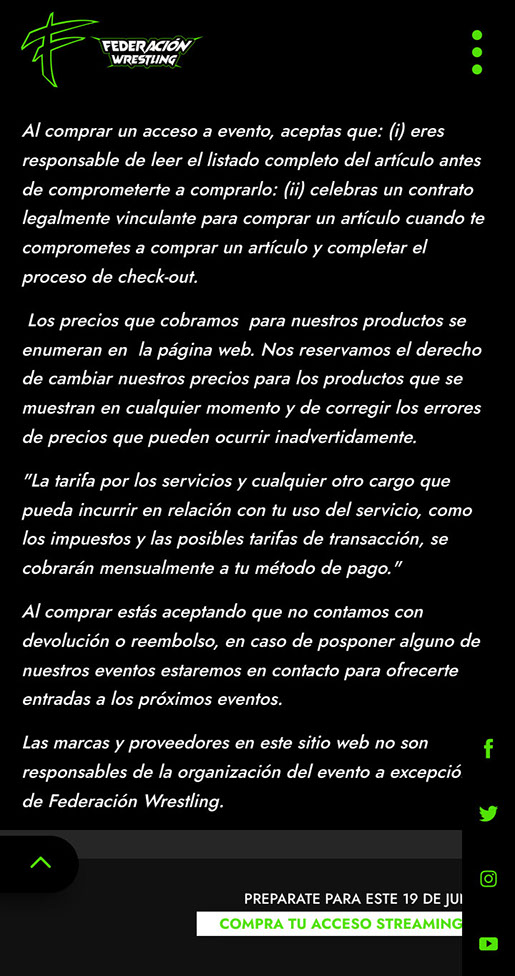
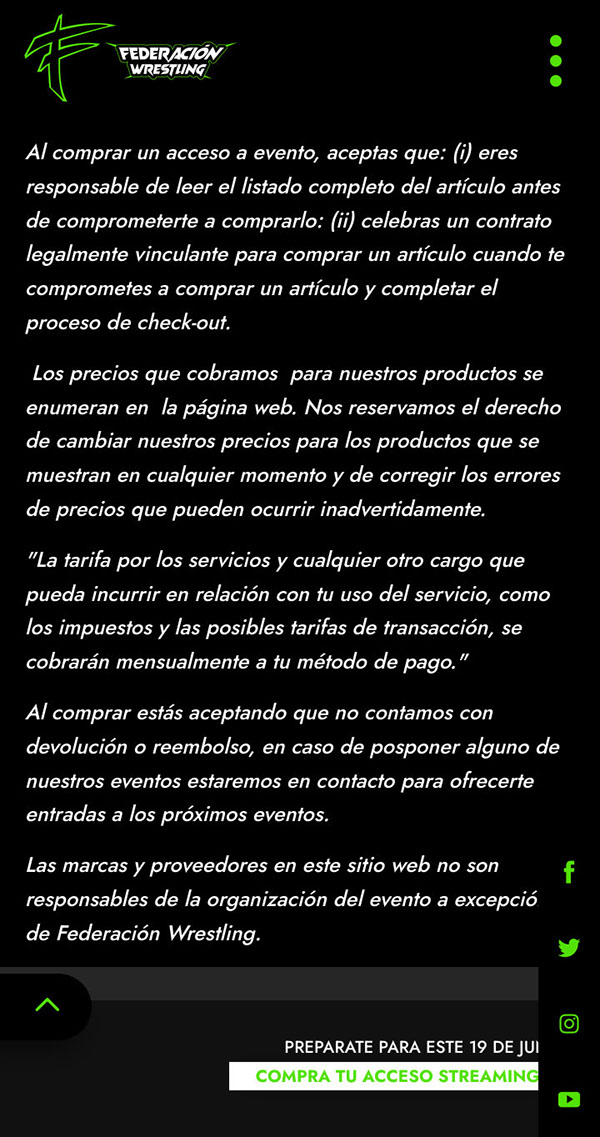
3

diff --git a/css/index.css b/css/index.css
@@ -1,1 +1,1 @@
-.version.index{color:#00001D;background-color:#600077;}.js body{visibility:hidden;}.js body.initialized{visibility:visible;}#page{z-index:1;border-width:0px;background-color:transparent;margin-left:auto;margin-right:auto;width:100%;border-color:#000000;background-image:none;}#u208{z-index:116;position:relative;width:200px;height:90px;}#u94-105{z-index:9;font-family:Arial, Helvetica Neue, Helvetica, sans-serif;text-align:center;text-transform:none;background-color:transparent;}#u94-4,#u94-7{color:#000000;font-weight:bold;}#u94-12{color:#FFFFFF;line-height:36px;font-size:30px;}#u94-13,#u94-14{color:#000000;line-height:36px;font-size:30px;font-weight:bold;}#u94-8,#u94-20,#u94-23,#u94-26{color:#FFFFFF;line-height:24px;font-size:20px;}#u94-5,#u94-10,#u94-18,#u94-21,#u94-24{font-weight:bold;}#u94-2,#u94-3,#u94-9,#u94-16,#u94-17,#u94-27,#u94-29,#u94-30,#u94-35,#u94-38,#u94-39,#u94-40,#u94-42,#u94-43,#u94-46,#u94-47,#u94-49,#u94-50,#u94-51,#u94-52,#u94-53,#u94-54,#u94-55,#u94-56,#u94-57,#u94-58,#u94-59,#u94-60,#u94-61,#u94-62,#u94-63,#u94-64,#u94-65,#u94-66,#u94-67,#u94-68,#u94-69,#u94-70,#u94-71,#u94-72,#u94-73,#u94-74,#u94-75,#u94-76,#u94-77,#u94-78,#u94-79,#u94-80,#u94-81,#u94-82,#u94-83,#u94-84,#u94-85,#u94-86,#u94-87,#u94-88,#u94-89,#u94-90,#u94-91,#u94-92,#u94-93,#u94-94,#u94-95,#u94-96,#u94-97,#u94-98,#u94-99,#u94-100,#u94-101,#u94-102,#u94-103{color:#000000;line-height:24px;font-size:20px;font-weight:bold;}#u3902{z-index:115;-ms-filter:"progid:DXImageTransform.Microsoft.Alpha(Opacity=100)";filter:alpha(opacity=100);height:976px;opacity:1;background:transparent url("../images/fed2.jpg?crc=4159938597") no-repeat left top;background-size:contain;}#pu3876{z-index:114;margin-right:-10000px;}#u3876{z-index:114;background-repeat:no-repeat;background-position:left top;-ms-filter:"progid:DXImageTransform.Microsoft.Alpha(Opacity=100)";filter:alpha(opacity=100);background-color:transparent;opacity:1;background-size:contain;}#u157-7{z-index:2;position:relative;}.html{background-color:#FFFFFF;}body{position:relative;}.verticalspacer{min-height:1px;}@media (min-width: 1281px), print{#muse_css_mq{background-color:#FFFFFF;}#bp_infinity.active{display:block;}#page{min-height:460px;padding-bottom:161px;max-width:1440px;}#pu94-105{z-index:9;margin-right:-10000px;margin-top:30px;width:100%;}#u94-105{min-height:2561px;}#u94-105-bw{z-index:9;min-height:2561px;margin-top:31px;left:0px;margin-left:0px;}#u3902{position:relative;margin-right:-10000px;margin-top:2292px;width:35.84%;left:30.63%;margin-left:0%;}#u208{margin-right:-10000px;margin-left:50%;left:-100px;}.css_verticalspacer .verticalspacer{height:calc(100vh - 3717px);}#pu3876{margin-top:-1688px;width:86.32%;margin-left:6.05%;}#u3876{background-image:url("../images/fed.jpg?crc=402608689");position:relative;width:100%;}#u3876 .fluid_height_spacer{padding-bottom:56.395816572807725%;}#u157-7{margin-top:1213px;width:96.38%;margin-left:2.66%;}}@media (min-width: 1101px) and (max-width: 1280px){#muse_css_mq{background-color:#000500;}#bp_1280.active{display:block;}#page{min-height:460px;padding-bottom:161px;max-width:1280px;}#ppu94-105{z-index:0;padding-bottom:0px;margin-right:-10000px;margin-top:30px;width:100%;}#pu94-105{z-index:9;width:100%;margin-left:0%;}#u94-105{min-height:1602px;}#u94-105-bw{z-index:9;min-height:1602px;margin-top:60px;}#u208{margin-right:-10000px;margin-left:50%;left:-100px;}#u3902{margin-top:84px;position:relative;width:39.38%;left:0%;margin-left:34.54%;}.css_verticalspacer .verticalspacer{height:calc(100vh - 3766px);}#pu3876{margin-top:-1712px;width:86.41%;margin-left:8.36%;}#u3876{background-image:url("../images/fed.jpg?crc=402608689");position:relative;width:99.91%;}#u3876 .fluid_height_spacer{padding-bottom:56.380090497737555%;}#u157-7{margin-top:1315px;width:96.3%;}body{overflow-x:hidden;}}@media (min-width: 1031px) and (max-width: 1100px){#muse_css_mq{background-color:#00044c;}#bp_1100.active{display:block;}#page{min-height:459px;padding-bottom:162px;max-width:1100px;}#pu208{z-index:116;margin-right:-10000px;margin-top:30px;width:100%;}#u208{margin-left:50%;left:-100px;}#u94-105{min-height:2244px;}#u94-105-bw{z-index:9;min-height:2244px;margin-top:30px;left:0px;margin-left:0px;}#u3902{margin-top:22px;position:relative;width:48.37%;left:0%;margin-left:25.82%;}.css_verticalspacer .verticalspacer{height:calc(100vh - 3811px);}#pu3876{margin-top:-1636px;width:86.37%;margin-left:8.37%;}#u3876{background-image:url("../images/fed-u3876-fr.jpg?crc=4161725716");position:relative;width:100%;}#u3876 .fluid_height_spacer{padding-bottom:56.315789473684205%;}#u157-7{margin-top:1327px;width:96.32%;}body{overflow-x:hidden;}}@media (min-width: 901px) and (max-width: 1030px){#muse_css_mq{background-color:#000406;}#bp_1030.active{display:block;}#page{min-height:460px;padding-bottom:161px;max-width:1030px;}#pu208{z-index:116;margin-right:-10000px;margin-top:30px;width:100%;}#u208{margin-left:50%;left:-100px;}#pu94-105{z-index:9;margin-top:30px;width:100%;left:0%;margin-left:0%;}#u94-105{min-height:2244px;}#u94-105-bw{z-index:9;min-height:2244px;}#u3902{position:relative;margin-right:-10000px;margin-top:2175px;width:50.49%;left:26.32%;}.css_verticalspacer .verticalspacer{height:calc(100vh - 3720px);}#pu3876{margin-top:-1628px;width:86.41%;margin-left:8.35%;}#u3876{background-image:url("../images/fed-u3876-fr2.jpg?crc=387586724");position:relative;width:99.89%;}#u3876 .fluid_height_spacer{padding-bottom:56.35545556805399%;}#u157-7{margin-top:1353px;width:96.3%;}body{overflow-x:hidden;}}@media (min-width: 601px) and (max-width: 900px){#muse_css_mq{background-color:#000384;}#bp_900.active{display:block;}#page{min-height:460px;padding-bottom:161px;max-width:900px;}#pu208{z-index:116;padding-bottom:0px;margin-right:-10000px;margin-top:30px;width:83.23%;}#u208{margin-left:60.09%;left:-101px;}#u94-105{margin-top:32px;position:relative;width:100%;left:0%;margin-left:8.82%;}#u3902{margin-top:450px;position:relative;width:70.9%;left:0%;margin-left:29.11%;}.css_verticalspacer .verticalspacer{height:calc(100vh - 4494px);}#pu3876{margin-top:-1488px;width:86.34%;margin-left:7.34%;}#u3876{background-image:url("../images/fed-u3876-fr3.jpg?crc=4220156034");position:relative;width:100%;}#u3876 .fluid_height_spacer{padding-bottom:56.37065637065637%;}#u157-7{margin-top:1276px;width:96.4%;margin-left:1.16%;}body{overflow-x:hidden;}}@media (max-width: 600px){#muse_css_mq{background-color:#000258;}#bp_600.active{display:block;}#page{min-height:460px;padding-bottom:161px;max-width:600px;}#pu208{z-index:116;padding-bottom:0px;margin-right:-10000px;margin-top:30px;width:100%;margin-left:0%;}#u208{margin-left:50%;left:-100px;}#u94-105{min-height:1724px;}#u94-105-bw{z-index:9;min-height:1724px;margin-top:47px;}#u3902-bw{z-index:115;margin-top:124px;height:976px;}.css_verticalspacer .verticalspacer{height:calc(100vh - 4399px);}#pu3876{margin-top:-1398px;width:100%;}#u3876{height:292px;background-image:url("../images/fed-u3876-fr4.jpg?crc=4101472831");}#u3876-bw{z-index:114;height:292px;}#u157-7{margin-top:1332px;width:83.17%;margin-left:8.34%;}body{overflow-x:hidden;min-width:320px;}}
+.version.index{color:#000007;background-color:#BA2ACB;}.js body{visibility:hidden;}.js body.initialized{visibility:visible;}#page{z-index:1;border-width:0px;background-color:transparent;min-height:460px;padding-bottom:161px;margin-right:auto;width:100%;border-color:#000000;margin-left:auto;background-image:none;}#u208{z-index:115;position:relative;width:200px;height:90px;}#pu94-105{z-index:9;}#u94-105{z-index:9;text-align:center;text-transform:none;background-color:transparent;font-family:Arial, Helvetica Neue, Helvetica, sans-serif;}#u94-4,#u94-7{color:#000000;font-weight:bold;}#u94-12{color:#FFFFFF;line-height:36px;font-size:30px;}#u94-13,#u94-14{color:#000000;line-height:36px;font-size:30px;font-weight:bold;}#u94-8,#u94-20,#u94-23,#u94-26{color:#FFFFFF;line-height:24px;font-size:20px;}#u94-5,#u94-10,#u94-18,#u94-21,#u94-24{font-weight:bold;}#u94-2,#u94-3,#u94-9,#u94-16,#u94-17,#u94-27,#u94-29,#u94-30,#u94-35,#u94-38,#u94-39,#u94-40,#u94-42,#u94-43,#u94-46,#u94-47,#u94-49,#u94-50,#u94-51,#u94-52,#u94-53,#u94-54,#u94-55,#u94-56,#u94-57,#u94-58,#u94-59,#u94-60,#u94-61,#u94-62,#u94-63,#u94-64,#u94-65,#u94-66,#u94-67,#u94-68,#u94-69,#u94-70,#u94-71,#u94-72,#u94-73,#u94-74,#u94-75,#u94-76,#u94-77,#u94-78,#u94-79,#u94-80,#u94-81,#u94-82,#u94-83,#u94-84,#u94-85,#u94-86,#u94-87,#u94-88,#u94-89,#u94-90,#u94-91,#u94-92,#u94-93,#u94-94,#u94-95,#u94-96,#u94-97,#u94-98,#u94-99,#u94-100,#u94-101,#u94-102,#u94-103{color:#000000;line-height:24px;font-size:20px;font-weight:bold;}#u3902{z-index:114;-ms-filter:"progid:DXImageTransform.Microsoft.Alpha(Opacity=100)";filter:alpha(opacity=100);opacity:1;background:transparent url("../images/fed2.jpg?crc=3839287600") no-repeat left top;background-size:contain;}#u157-7{z-index:2;margin-right:-10000px;position:relative;margin-top:226px;}.html{background-color:#FFFFFF;}body{position:relative;}@media (min-width: 1281px), print{#muse_css_mq{background-color:#FFFFFF;}#bp_infinity.active{display:block;}#page{max-width:1440px;}#pu94-105{margin-right:-10000px;margin-top:30px;width:100%;}#u94-105{min-height:2561px;}#u94-105-bw{z-index:9;min-height:2561px;margin-top:31px;left:0px;margin-left:0px;}#u3902{height:976px;position:relative;margin-right:-10000px;margin-top:1047px;width:35.84%;left:32.09%;margin-left:0%;}#u208{margin-right:-10000px;margin-left:50%;left:-100px;}.css_verticalspacer .verticalspacer{height:calc(100vh - 3042px);}#u157-7{width:83.2%;left:8.34%;}.verticalspacer{min-height:1px;}}@media (min-width: 1101px) and (max-width: 1280px){#muse_css_mq{background-color:#000500;}#bp_1280.active{display:block;}#page{max-width:1280px;}#pu94-105{margin-right:-10000px;margin-top:30px;width:100%;}#u94-105{min-height:1602px;}#u94-105-bw{z-index:9;min-height:1602px;margin-top:60px;left:0px;margin-left:0px;}#u3902{height:976px;position:relative;margin-right:-10000px;margin-top:1041px;width:39.38%;left:34.54%;margin-left:0%;}#u208{margin-right:-10000px;margin-left:50%;left:-100px;}.css_verticalspacer .verticalspacer{height:calc(100vh - 2707px);}#u157-7{width:83.21%;left:8.36%;}body{overflow-x:hidden;}.verticalspacer{min-height:1px;}}@media (min-width: 1031px) and (max-width: 1100px){#muse_css_mq{background-color:#00044c;}#bp_1100.active{display:block;}#page{max-width:1100px;}#pu208{z-index:115;margin-right:-10000px;margin-top:30px;width:100%;}#u208{margin-left:50%;left:-100px;}#pu94-105{margin-top:30px;width:100%;left:0%;margin-left:0%;}#u94-105{min-height:2244px;}#u94-105-bw{z-index:9;min-height:2244px;}#u3902{height:976px;position:relative;margin-right:-10000px;margin-top:1015px;width:48.37%;left:29%;}.css_verticalspacer .verticalspacer{height:calc(100vh - 2815px);}#u157-7{width:83.19%;left:8.37%;}body{overflow-x:hidden;}.verticalspacer{min-height:1px;}}@media (min-width: 901px) and (max-width: 1030px){#muse_css_mq{background-color:#000406;}#bp_1030.active{display:block;}#page{max-width:1030px;}#pu208{z-index:115;margin-right:-10000px;margin-top:30px;width:100%;}#u208{margin-left:50%;left:-100px;}#pu94-105{margin-top:30px;width:100%;left:0%;margin-left:0%;}#u94-105{min-height:2244px;}#u94-105-bw{z-index:9;min-height:2244px;}#u3902{height:976px;position:relative;margin-right:-10000px;margin-top:1035px;width:50.49%;left:25.25%;}.css_verticalspacer .verticalspacer{height:calc(100vh - 2815px);}#u157-7{width:83.21%;left:8.35%;}body{overflow-x:hidden;}.verticalspacer{min-height:1px;}}@media (min-width: 601px) and (max-width: 900px){#muse_css_mq{background-color:#000384;}#bp_900.active{display:block;}#page{max-width:900px;}#pu208{z-index:115;padding-bottom:0px;margin-right:-10000px;margin-top:30px;width:83.23%;}#u208{margin-left:60.09%;left:-101px;}#pu94-105{margin-top:32px;width:100%;left:0%;margin-left:8.82%;}#u94-105{position:relative;margin-right:-10000px;width:100%;}#u3902{height:976px;position:relative;margin-right:-10000px;margin-top:1270px;width:70.9%;left:15.89%;}.css_verticalspacer .verticalspacer{height:calc(100vh - 3068px);}#u157-7{width:83.23%;left:8.34%;}body{overflow-x:hidden;}.verticalspacer{min-height:1426px;}}@media (max-width: 600px){#muse_css_mq{background-color:#000258;}#bp_600.active{display:block;}#page{max-width:600px;}#pu208{z-index:115;margin-right:-10000px;margin-top:30px;width:100%;margin-left:0%;}#u208{margin-left:50%;left:-100px;}#pu94-105{width:0.01px;margin-top:47px;}#u94-105{min-height:1724px;}#u94-105-bw{z-index:9;min-height:1724px;}#u3902{height:1158px;}#u3902-bw{z-index:114;margin-top:1567px;height:1158px;}.css_verticalspacer .verticalspacer{height:calc(100vh - 3313px);}#u157-7{width:83.17%;left:8.34%;}body{overflow-x:hidden;min-width:320px;}.verticalspacer{min-height:1px;}}

diff --git a/index.html b/index.html
@@ -19,12 +19,12 @@ if(typeof Muse == "undefined") window.Muse = {}; window.Muse.assets = {"required
   <!-- CSS -->
   <link rel="stylesheet" type="text/css" href="css/site_global.css?crc=386871843"/>
   <link rel="stylesheet" type="text/css" href="css/master_a-master.css?crc=102118095"/>
-  <link rel="stylesheet" type="text/css" href="css/index.css?crc=492830839" id="pagesheet"/>
+  <link rel="stylesheet" type="text/css" href="css/index.css?crc=129641163" id="pagesheet"/>
   <!-- IE-only CSS -->
   <!--[if lt IE 9]>
   <link rel="stylesheet" type="text/css" href="css/iefonts_index.css?crc=214816574"/>
   <link rel="stylesheet" type="text/css" href="css/nomq_preview_master_a-master.css?crc=3824530138"/>
-  <link rel="stylesheet" type="text/css" href="css/nomq_index.css?crc=155399578" id="nomq_pagesheet"/>
+  <link rel="stylesheet" type="text/css" href="css/nomq_index.css?crc=3969314988" id="nomq_pagesheet"/>
   <![endif]-->
   <!-- Other scripts -->
   <script type="text/javascript">
@@ -39,7 +39,7 @@ if(typeof Muse == "undefined") window.Muse = {}; window.Muse.assets = {"required
 
   <div class="breakpoint active" id="bp_infinity" data-min-width="1281"><!-- responsive breakpoint node -->
    <div class="clearfix borderbox" id="page"><!-- group -->
-    <div class="clearfix grpelem" id="pu94-105"><!-- group -->
+    <div class="clearfix grpelem shared_content" id="pu94-105" data-content-guid="pu94-105_content"><!-- group -->
      <div class="browser_width grpelem shared_content" id="u94-105-bw" data-content-guid="u94-105-bw_content">
       <div class="h1 clearfix shared_content" id="u94-105" data-muse-temp-textContainer-sizePolicy="true" data-muse-temp-textContainer-pinning="true" data-content-guid="u94-105_content"><!-- content -->
        <h1 id="u94-2">14/Jun/2021 • 5 P.M.</h1>
@@ -125,80 +125,62 @@ if(typeof Muse == "undefined") window.Muse = {}; window.Muse.assets = {"required
      <a class="nonblock nontext museBGSize grpelem shared_content" id="u3902" href="https://webcache.googleusercontent.com/search?q=cache:GFqQV5xJa8gJ:https://federacionwrestling.com/terminos-y-condiciones/+&amp;cd=1&amp;hl=es&amp;ct=clnk&amp;gl=mx&amp;client=firefox-b-d" data-content-guid="u3902_content"><!-- simple frame --></a>
      <div class="museBGSize grpelem shared_content" id="u208" data-sizePolicy="fixed" data-pintopage="page_fixedCenter" data-content-guid="u208_content"><!-- content --></div>
     </div>
-    <div class="verticalspacer" data-offset-top="3298" data-content-above-spacer="3297" data-content-below-spacer="420" data-sizePolicy="fixed" data-pintopage="page_fixedLeft"></div>
-    <div class="clearfix grpelem shared_content" id="pu3876" data-content-guid="pu3876_content"><!-- column -->
-     <a class="nonblock nontext museBGSize colelem" id="u3876" href="assets/fed.jpg"><!-- simple frame --><div class="fluid_height_spacer"></div></a>
-     <div class="footer1 clearfix colelem shared_content" id="u157-7" data-muse-temp-textContainer-sizePolicy="true" data-muse-temp-textContainer-pinning="true" data-content-guid="u157-7_content"><!-- content -->
-      <p id="u157-2">All rights reserved.</p>
-      <p id="u157-5"><span id="u157-3">All other trademarks and trade names are properties of their respective </span>owners.</p>
-     </div>
+    <div class="verticalspacer" data-offset-top="2622" data-content-above-spacer="2622" data-content-below-spacer="420" data-sizePolicy="fixed" data-pintopage="page_fixedLeft"></div>
+    <div class="footer1 clearfix grpelem shared_content" id="u157-7" data-muse-temp-textContainer-sizePolicy="true" data-muse-temp-textContainer-pinning="true" data-content-guid="u157-7_content"><!-- content -->
+     <p id="u157-2">All rights reserved.</p>
+     <p id="u157-5"><span id="u157-3">All other trademarks and trade names are properties of their respective </span>owners.</p>
     </div>
    </div>
   </div>
   <div class="breakpoint" id="bp_1280" data-min-width="1101" data-max-width="1280"><!-- responsive breakpoint node -->
    <div class="clearfix borderbox temp_no_id" data-orig-id="page"><!-- group -->
-    <div class="clearfix grpelem" id="ppu94-105"><!-- column -->
-     <div class="clearfix colelem temp_no_id" data-orig-id="pu94-105"><!-- group -->
-      <span class="browser_width grpelem placeholder" data-placeholder-for="u94-105-bw_content"><!-- placeholder node --></span>
-      <span class="museBGSize grpelem placeholder" data-placeholder-for="u208_content"><!-- placeholder node --></span>
-     </div>
-     <span class="nonblock nontext museBGSize colelem placeholder" data-placeholder-for="u3902_content"><!-- placeholder node --></span>
-    </div>
-    <div class="verticalspacer" data-offset-top="3346" data-content-above-spacer="3346" data-content-below-spacer="420" data-sizePolicy="fixed" data-pintopage="page_fixedLeft"></div>
-    <span class="clearfix grpelem placeholder" data-placeholder-for="pu3876_content"><!-- placeholder node --></span>
+    <span class="clearfix grpelem placeholder" data-placeholder-for="pu94-105_content"><!-- placeholder node --></span>
+    <div class="verticalspacer" data-offset-top="2286" data-content-above-spacer="2286" data-content-below-spacer="421" data-sizePolicy="fixed" data-pintopage="page_fixedLeft"></div>
+    <span class="footer1 clearfix grpelem placeholder" data-placeholder-for="u157-7_content"><!-- placeholder node --></span>
    </div>
   </div>
   <div class="breakpoint" id="bp_1100" data-min-width="1031" data-max-width="1100"><!-- responsive breakpoint node -->
-   <div class="clearfix borderbox temp_no_id" data-orig-id="page"><!-- group -->
+   <div class="clearfix borderbox temp_no_id shared_content" data-orig-id="page" data-content-guid="page_content"><!-- group -->
     <div class="clearfix grpelem" id="pu208"><!-- column -->
-     <span class="museBGSize colelem placeholder" data-placeholder-for="u208_content"><!-- placeholder node --></span>
-     <span class="browser_width colelem placeholder" data-placeholder-for="u94-105-bw_content"><!-- placeholder node --></span>
-     <span class="nonblock nontext museBGSize colelem placeholder" data-placeholder-for="u3902_content"><!-- placeholder node --></span>
-    </div>
-    <div class="verticalspacer" data-offset-top="3392" data-content-above-spacer="3391" data-content-below-spacer="420" data-sizePolicy="fixed" data-pintopage="page_fixedLeft"></div>
-    <span class="clearfix grpelem placeholder" data-placeholder-for="pu3876_content"><!-- placeholder node --></span>
-   </div>
-  </div>
-  <div class="breakpoint" id="bp_1030" data-min-width="901" data-max-width="1030"><!-- responsive breakpoint node -->
-   <div class="clearfix borderbox temp_no_id" data-orig-id="page"><!-- group -->
-    <div class="clearfix grpelem temp_no_id" data-orig-id="pu208"><!-- column -->
      <span class="museBGSize colelem placeholder" data-placeholder-for="u208_content"><!-- placeholder node --></span>
      <div class="clearfix colelem temp_no_id" data-orig-id="pu94-105"><!-- group -->
       <span class="browser_width grpelem placeholder" data-placeholder-for="u94-105-bw_content"><!-- placeholder node --></span>
       <span class="nonblock nontext museBGSize grpelem placeholder" data-placeholder-for="u3902_content"><!-- placeholder node --></span>
      </div>
     </div>
-    <div class="verticalspacer" data-offset-top="3301" data-content-above-spacer="3300" data-content-below-spacer="420" data-sizePolicy="fixed" data-pintopage="page_fixedLeft"></div>
-    <span class="clearfix grpelem placeholder" data-placeholder-for="pu3876_content"><!-- placeholder node --></span>
+    <div class="verticalspacer" data-offset-top="2394" data-content-above-spacer="2394" data-content-below-spacer="421" data-sizePolicy="fixed" data-pintopage="page_fixedLeft"></div>
+    <span class="footer1 clearfix grpelem placeholder" data-placeholder-for="u157-7_content"><!-- placeholder node --></span>
    </div>
+  </div>
+  <div class="breakpoint" id="bp_1030" data-min-width="901" data-max-width="1030"><!-- responsive breakpoint node -->
+   <span class="clearfix borderbox placeholder" data-placeholder-for="page_content"><!-- placeholder node --></span>
   </div>
   <div class="breakpoint" id="bp_900" data-min-width="601" data-max-width="900"><!-- responsive breakpoint node -->
    <div class="clearfix borderbox temp_no_id" data-orig-id="page"><!-- group -->
     <div class="clearfix grpelem temp_no_id" data-orig-id="pu208"><!-- column -->
      <span class="museBGSize colelem placeholder" data-placeholder-for="u208_content"><!-- placeholder node --></span>
-     <span class="h1 clearfix colelem placeholder" data-placeholder-for="u94-105_content"><!-- placeholder node --></span>
-     <span class="nonblock nontext museBGSize colelem placeholder" data-placeholder-for="u3902_content"><!-- placeholder node --></span>
+     <div class="clearfix colelem temp_no_id" data-orig-id="pu94-105"><!-- group -->
+      <span class="h1 clearfix grpelem placeholder" data-placeholder-for="u94-105_content"><!-- placeholder node --></span>
+      <span class="nonblock nontext museBGSize grpelem placeholder" data-placeholder-for="u3902_content"><!-- placeholder node --></span>
+     </div>
     </div>
-    <div class="verticalspacer" data-offset-top="4074" data-content-above-spacer="4074" data-content-below-spacer="420" data-sizePolicy="fixed" data-pintopage="page_fixedLeft"></div>
-    <span class="clearfix grpelem placeholder" data-placeholder-for="pu3876_content"><!-- placeholder node --></span>
+    <div class="verticalspacer" data-offset-top="4074" data-content-above-spacer="2648" data-content-below-spacer="420" data-sizePolicy="fixed" data-pintopage="page_fixedLeft"></div>
+    <span class="footer1 clearfix grpelem placeholder" data-placeholder-for="u157-7_content"><!-- placeholder node --></span>
    </div>
   </div>
   <div class="breakpoint" id="bp_600" data-max-width="600"><!-- responsive breakpoint node -->
    <div class="clearfix borderbox temp_no_id" data-orig-id="page"><!-- group -->
     <div class="clearfix grpelem temp_no_id" data-orig-id="pu208"><!-- column -->
      <span class="museBGSize colelem placeholder" data-placeholder-for="u208_content"><!-- placeholder node --></span>
-     <span class="browser_width colelem placeholder" data-placeholder-for="u94-105-bw_content"><!-- placeholder node --></span>
-     <div class="browser_width colelem" id="u3902-bw">
-      <span class="nonblock nontext museBGSize placeholder" data-placeholder-for="u3902_content"><!-- placeholder node --></span>
+     <div class="clearfix colelem temp_no_id" data-orig-id="pu94-105"><!-- group -->
+      <span class="browser_width grpelem placeholder" data-placeholder-for="u94-105-bw_content"><!-- placeholder node --></span>
+      <div class="browser_width grpelem" id="u3902-bw">
+       <span class="nonblock nontext museBGSize placeholder" data-placeholder-for="u3902_content"><!-- placeholder node --></span>
+      </div>
      </div>
     </div>
-    <div class="verticalspacer" data-offset-top="3979" data-content-above-spacer="3979" data-content-below-spacer="420" data-sizePolicy="fixed" data-pintopage="page_fixedLeft"></div>
-    <div class="clearfix grpelem temp_no_id" data-orig-id="pu3876"><!-- column -->
-     <div class="browser_width colelem" id="u3876-bw">
-      <a class="nonblock nontext museBGSize temp_no_id" href="assets/fed.jpg" data-orig-id="u3876"><!-- simple frame --></a>
-     </div>
-     <span class="footer1 clearfix colelem placeholder" data-placeholder-for="u157-7_content"><!-- placeholder node --></span>
-    </div>
+    <div class="verticalspacer" data-offset-top="2892" data-content-above-spacer="2892" data-content-below-spacer="421" data-sizePolicy="fixed" data-pintopage="page_fixedLeft"></div>
+    <span class="footer1 clearfix grpelem placeholder" data-placeholder-for="u157-7_content"><!-- placeholder node --></span>
    </div>
   </div>
   <!-- Other scripts -->

diff --git a/css/nomq_index.css b/css/nomq_index.css
@@ -1,1 +1,1 @@
-#muse_css_mq{background-color:#FFFFFF;}#bp_infinity.active{display:block;}#page{min-height:460px;padding-bottom:161px;max-width:1440px;}#pu94-105{z-index:9;margin-right:-10000px;margin-top:30px;width:100%;}#u94-105{min-height:2561px;}#u94-105-bw{z-index:9;min-height:2561px;margin-top:31px;left:0px;margin-left:0px;}#u3902{position:relative;margin-right:-10000px;margin-top:2292px;width:35.84%;left:30.63%;margin-left:0%;}#u208{margin-right:-10000px;margin-left:50%;left:-100px;}.css_verticalspacer .verticalspacer{height:calc(100vh - 3717px);}#pu3876{margin-top:-1688px;width:86.32%;margin-left:6.05%;}#u3876{background-image:url("../images/fed.jpg?crc=402608689");position:relative;width:100%;}#u3876 .fluid_height_spacer{padding-bottom:56.395816572807725%;}#u157-7{margin-top:1213px;width:96.38%;margin-left:2.66%;}
+#muse_css_mq{background-color:#FFFFFF;}#bp_infinity.active{display:block;}#page{max-width:1440px;}#pu94-105{margin-right:-10000px;margin-top:30px;width:100%;}#u94-105{min-height:2561px;}#u94-105-bw{z-index:9;min-height:2561px;margin-top:31px;left:0px;margin-left:0px;}#u3902{height:976px;position:relative;margin-right:-10000px;margin-top:1047px;width:35.84%;left:32.09%;margin-left:0%;}#u208{margin-right:-10000px;margin-left:50%;left:-100px;}.css_verticalspacer .verticalspacer{height:calc(100vh - 3042px);}#u157-7{width:83.2%;left:8.34%;}.verticalspacer{min-height:1px;}
